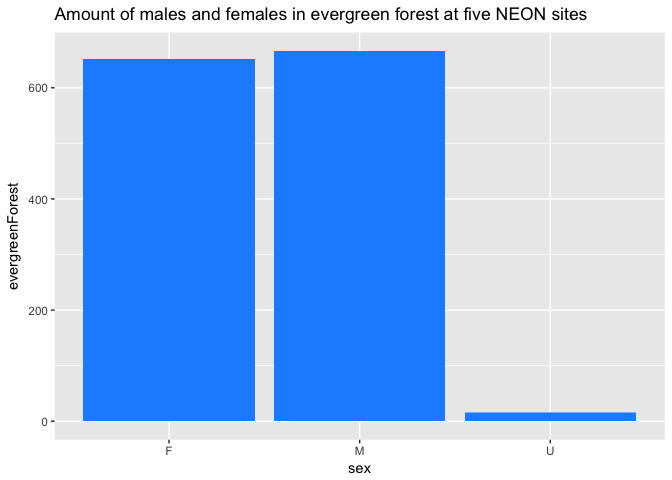
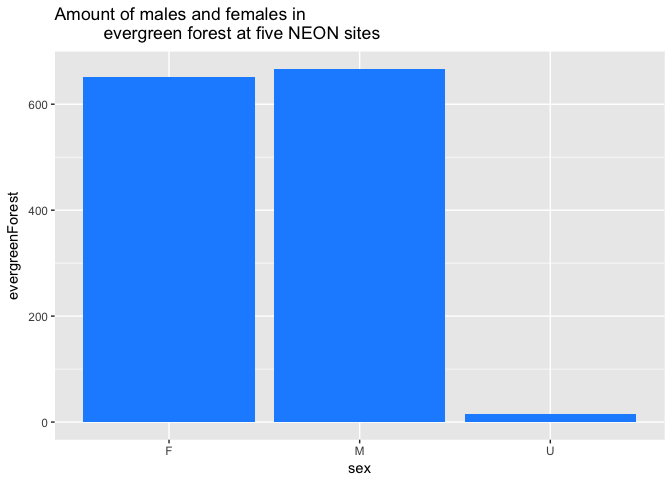
Commit Travis round 2

diff --git a/Analysis.md b/Analysis.md
@@ -41,7 +41,7 @@ Results
 =======
 
 ``` r
-#load packages needed for any analysis 
+#load packages needed for any analysis
 library("knitr")
 library("dplyr")
 ```
@@ -88,103 +88,120 @@ small_mammal_data <- readr::read_csv("data/raw_data/mam_pertrapnight.csv")
     ## See spec(...) for full column specifications.
 
 ``` r
-# we would like to get only thr rows that have captured animals in the trap
-# and get the count of each sex in each site that are in decidous and evergreen forests
+# we would like to get only thr rows that have captured
+# animals in the trap and get the count of each
+# sex in each site that are in deciduous
+# and evergreen forests
   
 forests_filter_data <- small_mammal_data %>%
   filter(trapStatus == "5 - capture") %>%
-  filter(nlcdClass %in% c("deciduousForest", "evergreenForest")) %>%
+  filter(nlcdClass %in% c("deciduousForest", 
+                          "evergreenForest")) %>%
   group_by(siteID, sex, nlcdClass) %>%
   tally() %>%
   spread(nlcdClass, n) %>%
-  mutate(num_forest_types = sum((deciduousForest > 0) + (evergreenForest > 0), na.rm = TRUE)) %>%
+  mutate(num_forest_types = sum((deciduousForest > 0) +
+        (evergreenForest > 0), na.rm = TRUE)) %>%
   filter(num_forest_types == 2) 
 ```
 
 ``` r
-# create boxplot between number of individuals (sex) in deciduous forests 
+# create boxplot between number of individuals
+# (sex) in deciduous forests
 
 ggplot(data = forests_filter_data,
        aes(x = sex,
            y = deciduousForest)) + 
   geom_boxplot() +
-  ggtitle("Amount of males and females in deciduous forest at five NEON sites") +
+  ggtitle("Amount of males and females in
+          deciduous forest at five NEON sites") +
   geom_col(fill = "red")
 ```
 
 ![](Analysis_files/figure-markdown_github/plot-boxplot-count1-1.png)
 
 ``` r
-# create boxplot between number of small mammals captured at each siteID in deciduous forest 
+# create boxplot between number of small mammals
+# captured at each siteID in deciduous forest
 
 ggplot(data = forests_filter_data,
        aes(x = siteID,
            y = deciduousForest)) + 
   geom_boxplot() +
-  ggtitle("Amount of small mammals in deciduous forest at five NEON sites") +
+  ggtitle("Amount of small mammals in deciduous
+          forest at five NEON sites") +
   geom_col(fill = "red")
 ```
 
 ![](Analysis_files/figure-markdown_github/plot-boxplot-count2-1.png)
 
 ``` r
-# create boxplot between number of individuals (sex) in evergreen forests
+# create boxplot between number of individuals
+# (sex) in evergreen forests
 
 ggplot(data = forests_filter_data,
        aes(x = sex,
            y = evergreenForest)) + 
   geom_boxplot() +
-  ggtitle("Amount of males and females in evergreen forest at five NEON sites") +
+  ggtitle("Amount of males and females in
+          evergreen forest at five NEON sites") +
   geom_col(fill = "dodger blue")
 ```
 
 ![](Analysis_files/figure-markdown_github/plot-boxplot-count3-1.png)
 
 ``` r
-# create boxplot between number of small mammals captured at each siteID in evergreen forest 
+# create boxplot between number of small mammals
+# captured at each siteID in evergreen forest 
 
 ggplot(data = forests_filter_data,
        aes(x = siteID,
            y = evergreenForest)) + 
   geom_boxplot() +
-  ggtitle("Amount of small mammals in evergreen forest at five NEON sites") +
+  ggtitle("Amount of small mammals in evergreen
+          forest at five NEON sites") +
   geom_col(fill = "dodger blue")
 ```
 
 ![](Analysis_files/figure-markdown_github/plot-boxplot-count4-1.png)
 
 ``` r
-# filter out sites that contain both evergreen and deciduous forest 
+# filter out sites that contain both evergreen 
+# and deciduous forest 
 # and summarise the total weight 
 
 weight_data <- small_mammal_data %>% 
   filter(trapStatus == "5 - capture") %>%
-  filter(siteID %in% c("BART", "HARV", "JERC", "ORNL", "TALL")) %>%
+  filter(siteID %in% c("BART", "HARV", 
+                       "JERC","ORNL", "TALL")) %>%
   group_by(siteID, sex) %>%
   summarise(total_weight = sum(weight, na.rm = TRUE))
 ```
 
 ``` r
-# create a boxplot with the 5 NEON siteIDs versus the weight 
+# create a boxplot with the 5 NEON
+# siteIDs versus the weight
 
 ggplot(data = weight_data,
        aes(x = siteID,
            y = total_weight)) +
   geom_boxplot() +
-  ggtitle("Total weight of small mammals at 5 NEON sites") +
+  ggtitle("Total weight of small
+          mammals at 5 NEON sites") +
   geom_col(fill = "dark green")
 ```
 
 ![](Analysis_files/figure-markdown_github/plot-boxplot-weight-siteID-1.png)
 
 ``` r
-# create a boxplot with the sex versus the weight 
+# create a boxplot with the sex versus the weight
 
 ggplot(data = weight_data,
        aes(x = sex,
            y = total_weight)) +
   geom_boxplot() +
-  ggtitle("Total weight of small mammals of each sex") +
+  ggtitle("Total weight of small
+          mammals of each sex") +
   geom_col(fill = "dark green")
 ```
 
